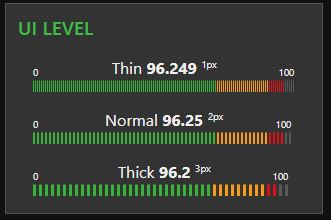
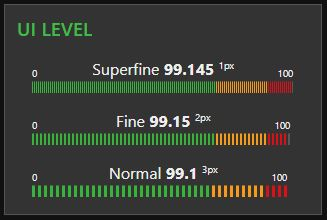
rename to resolution

diff --git a/ui-level.html b/ui-level.html
@@ -88,7 +88,7 @@ SOFTWARE.
             }
             if (this.shape === undefined) {
                 this.shape = 2;
-                $("#node-input-shape").val("Normal");
+                $("#node-input-shape").val("Fine");
             }
             $("#node-input-layout").change(function() {
                 if (($(this).val() === "sh") || ($(this).val() === "sv")) {
@@ -187,9 +187,9 @@ SOFTWARE.
     <div class="form-row">
         <label for="node-input-shape"><i class="fa fa-list"></i> Stripe shape</label>
         <select id="node-input-shape" style="width:200px !important">
-            <option value=1>Thin</option>
-            <option value=2>Normal</option>
-            <option value=3>Thick</option>
+            <option value=1>Superfine</option>
+            <option value=2>Fine</option>
+            <option value=3>Normal</option>
         </select>
     </div>                   
 </br>
@@ -209,6 +209,6 @@ SOFTWARE.
     <p>The node's <code>Unit</code> will be displayed near the current value. Exact position of the unit depends on choosed layout. The unit can be any <code>string</code>, for example: <code>lbs psi F°</code></p>
     <p>The min and max values are customizable within the configuration but cannot be set with a msg.</p>
     <p>The segments's values and colors are also customizable within the configuration but cannot be set with a msg.</p> 
-    <p>You can choose between 3 different stripe shape. Thin, Normal and Thick</p>   
+    <p>You can choose between 3 different stripe resolutions. Normal, Fine and Superfine</p>   
     <p>You can choose anmations to be <code>soft</code> or <code>reactive</code> or animations can be turned <code>off</code> completely.</p>
 </script>

diff --git a/README.md b/README.md
@@ -4,14 +4,14 @@
 [![NPM version][npm-image]][npm-url]
 [![CodeFactor](https://www.codefactor.io/repository/github/hotnipi/node-red-contrib-ui-level/badge)](https://www.codefactor.io/repository/github/hotnipi/node-red-contrib-ui-level)
 
-[npm-image]: http://img.shields.io/npm/v/node-red-contrib-self-adjusting-threshold.svg
-[npm-url]: https://npmjs.org/package/node-red-contrib-self-adjusting-threshold
+[npm-image]: http://img.shields.io/npm/v/node-red-contrib-ui-level.svg
+[npm-url]: https://npmjs.org/package/node-red-contrib-ui-level
 
 Adds a linear Level type widget to the user interface
 
 ![node-red-dashboard-ui-level.JPG](img/node-red-dashboard-ui-level.JPG)
 
-Since version 0.0.14 the size of stripes has 3 options
+Since version 0.0.14 the resolution of stripes has 3 options
 
 ![node-red-dashboard-ui-level-shapes.JPG](img/node-red-dashboard-ui-level-shapes.JPG)
 
@@ -23,11 +23,12 @@ Widget has 3 different layouts: Single Horizontal, Pair Horizontal and Single Ve
 
 Takes the `msg.payload` and displays the value at the top of the level graphics.
 For Pair Horizontal layout the `msg.payload` is expected to be an `array`
+`msg.payload` is validated to find a nummeric value. So you can send number `msg.payload = 15` or string `msg.payload = "15"` 
 
 The node's `Label` is displayed near the value. Leave the label field empty to show value only.
 For Pair Horizontal layout the `Label` is not displayed but both `Channels` can be labelled independently.
 
-The node's `Unit` will be displayed near the current value. Exact position of the unit depends on choosed layout. The unit can be any `string`, for example: `lbs psi F°`
+The node's `Unit` will be displayed near the current value. Exact position of the unit depends on choosed layout. The unit can be any `string`, for example: `lbs psi F°` Set the unit to empty string if you don't need to display it.
 
 The min and max values are customizable within the configuration but cannot be set with a msg.
 
@@ -35,5 +36,5 @@ The segments's values and colors are also customizable within the configuration 
 
 You can choose anmations to be `soft` or `reactive` or animations can be turned `off` completely.
 
-You can choose between 3 different stripe shape. Thin, Normal and Thick
+You can choose between 3 different stripe resolutions. Superfine, Fine and Normal
 
